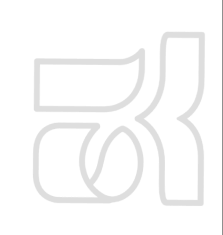
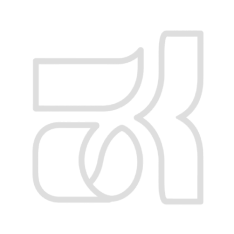
fix: rapikan aksen Telkom sesuai Figma

diff --git a/frontend/src/components/DepartmentsSection.jsx b/frontend/src/components/DepartmentsSection.jsx
@@ -4,33 +4,31 @@ import DepartmentCard from './DepartmentCard';
 import watermark from '../assets/landing/telkom-accent.png';
 import { jurusanData } from '../data/dummyData';
 
+// Posisi relatif dari frame Figma 78:3, area aksen y=1243..2170.
+// Aset 119:95 sudah diputar 90 derajat; rotasi di sini adalah selisihnya.
+const accentPositions = [
+  '-left-[11.33cqh] top-0 -rotate-90',
+  'left-[11.97cqh] top-0',
+  '-left-[11.14cqh] top-[21.252%] rotate-[0.44deg]',
+  '-left-[11.33cqh] top-[44.521%] rotate-[90.47deg]',
+  '-right-[1.34cqh] top-[15.102%] rotate-[0.44deg]',
+  '-right-[1.17cqh] top-[38.372%] rotate-[90.47deg]',
+  '-right-[1.21cqh] top-[61.525%] rotate-[90.6deg]',
+  'right-[22.06cqh] top-[61.273%] rotate-[-179.36deg]',
+];
+
 const DepartmentsSection = () => (
   <section id="jurusan" className="relative overflow-hidden bg-white py-8 lg:py-12">
-    {/* Watermark logo dekoratif */}
-    <img
-      src={watermark}
-      alt=""
-      aria-hidden="true"
-      className="pointer-events-none absolute left-2 top-4 hidden w-40 rotate-180 select-none object-contain 2xl:block"
-    />
-    <img
-      src={watermark}
-      alt=""
-      aria-hidden="true"
-      className="pointer-events-none absolute right-2 top-12 hidden w-40 select-none object-contain 2xl:block"
-    />
-    <img
-      src={watermark}
-      alt=""
-      aria-hidden="true"
-      className="pointer-events-none absolute bottom-12 left-2 hidden w-40 -rotate-90 select-none object-contain 2xl:block"
-    />
-    <img
-      src={watermark}
-      alt=""
-      aria-hidden="true"
-      className="pointer-events-none absolute bottom-4 right-2 hidden w-40 rotate-90 select-none object-contain 2xl:block"
-    />
+    <div aria-hidden="true" className="pointer-events-none absolute inset-0 hidden overflow-hidden [container-type:size] 2xl:block">
+      {accentPositions.map((position) => (
+        <img
+          key={position}
+          src={watermark}
+          alt=""
+          className={`absolute size-[25.134cqh] select-none object-contain ${position}`}
+        />
+      ))}
+    </div>
 
     <div className="relative max-w-6xl mx-auto px-4 sm:px-6 lg:px-8">
       <p className="text-center text-xs font-bold text-primary">

diff --git a/frontend/src/components/RibbonDivider.jsx b/frontend/src/components/RibbonDivider.jsx
@@ -1,12 +1,14 @@
 import ribbon from '../assets/landing/ribbon.png';
 
 const RibbonDivider = () => (
-  <img
-    src={ribbon}
-    alt=""
-    aria-hidden="true"
-    className="pointer-events-none w-full select-none -mb-10 sm:-mb-16 lg:-mb-28"
-  />
+  // Batas bawah mengikuti tepi kedua pita; watermark bawaan gambar tidak ikut tampil.
+  <div aria-hidden="true" className="pointer-events-none relative aspect-[1847/146] overflow-hidden">
+    <img
+      src={ribbon}
+      alt=""
+      className="absolute inset-x-0 top-0 w-full select-none [clip-path:polygon(0_0,100%_0,100%_47.5%,56%_40.5%,0_44.6%)]"
+    />
+  </div>
 );
 
 export default RibbonDivider;
